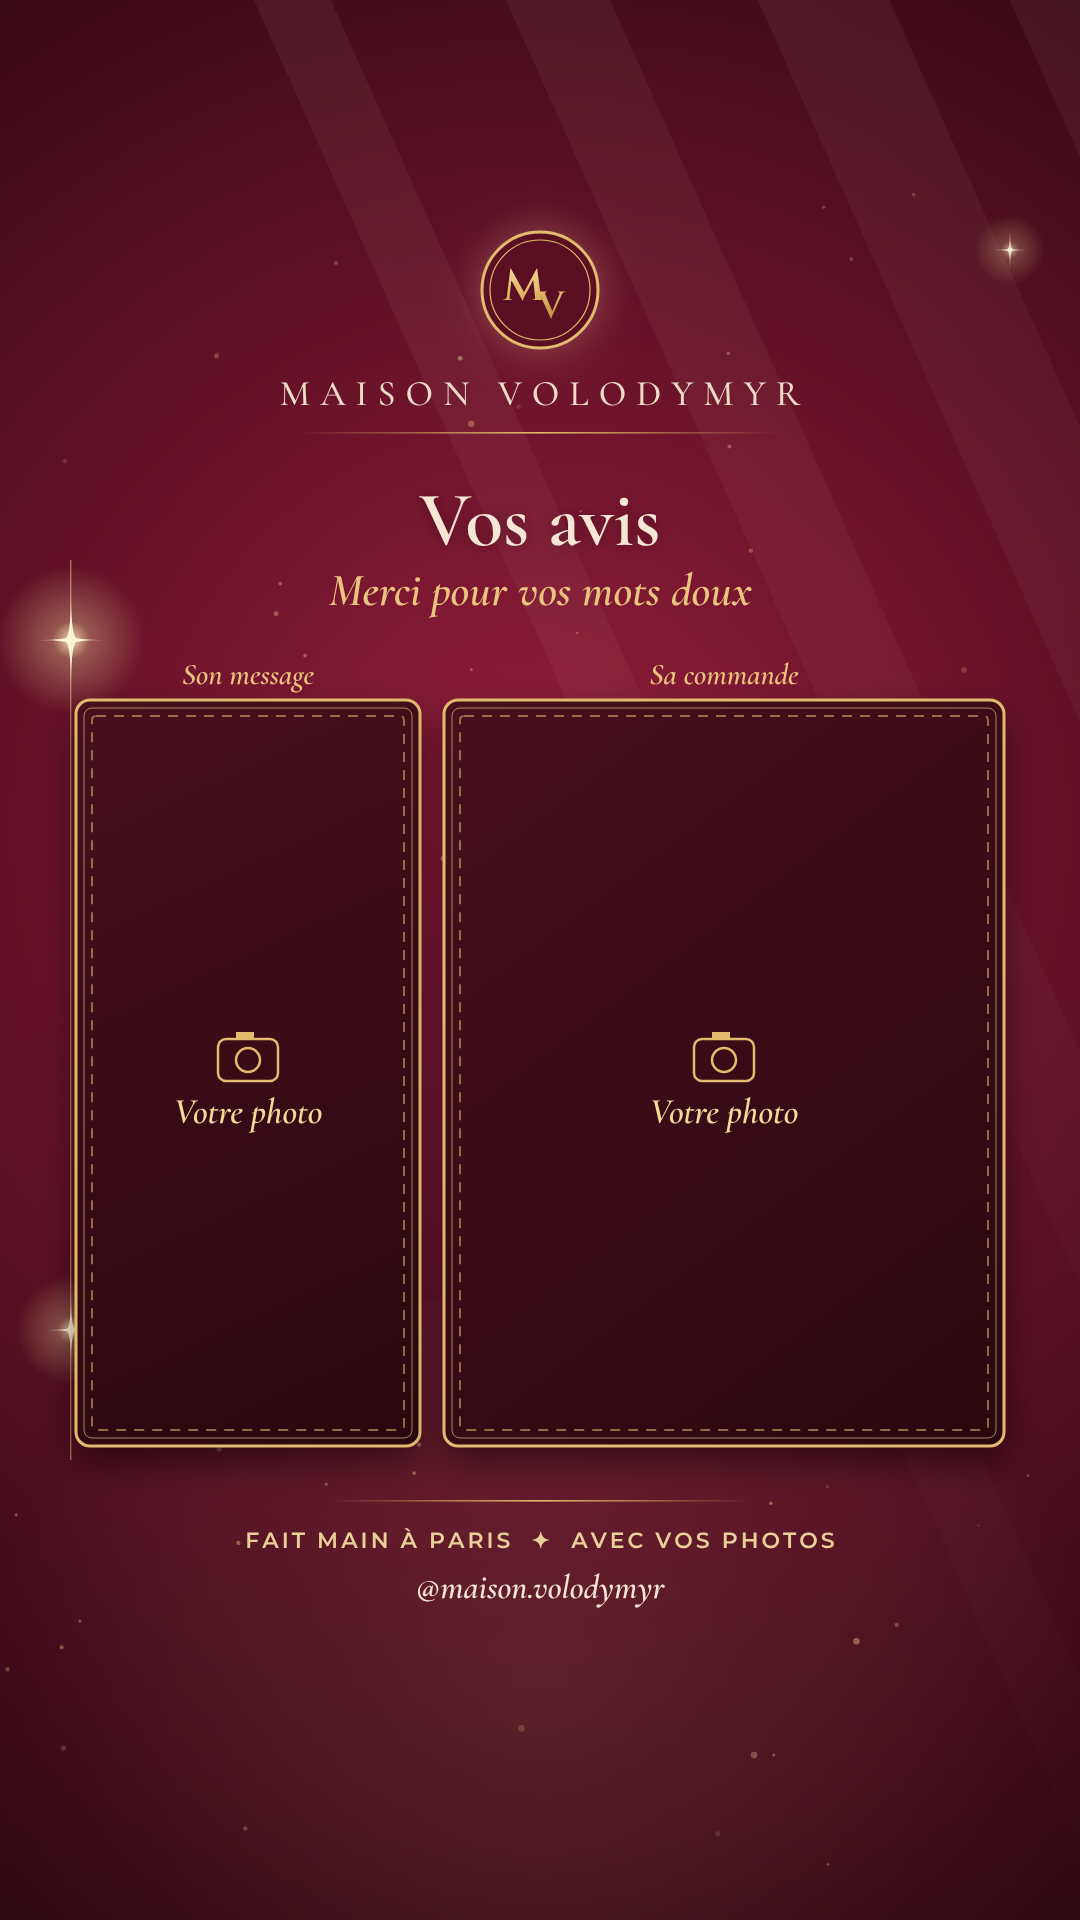
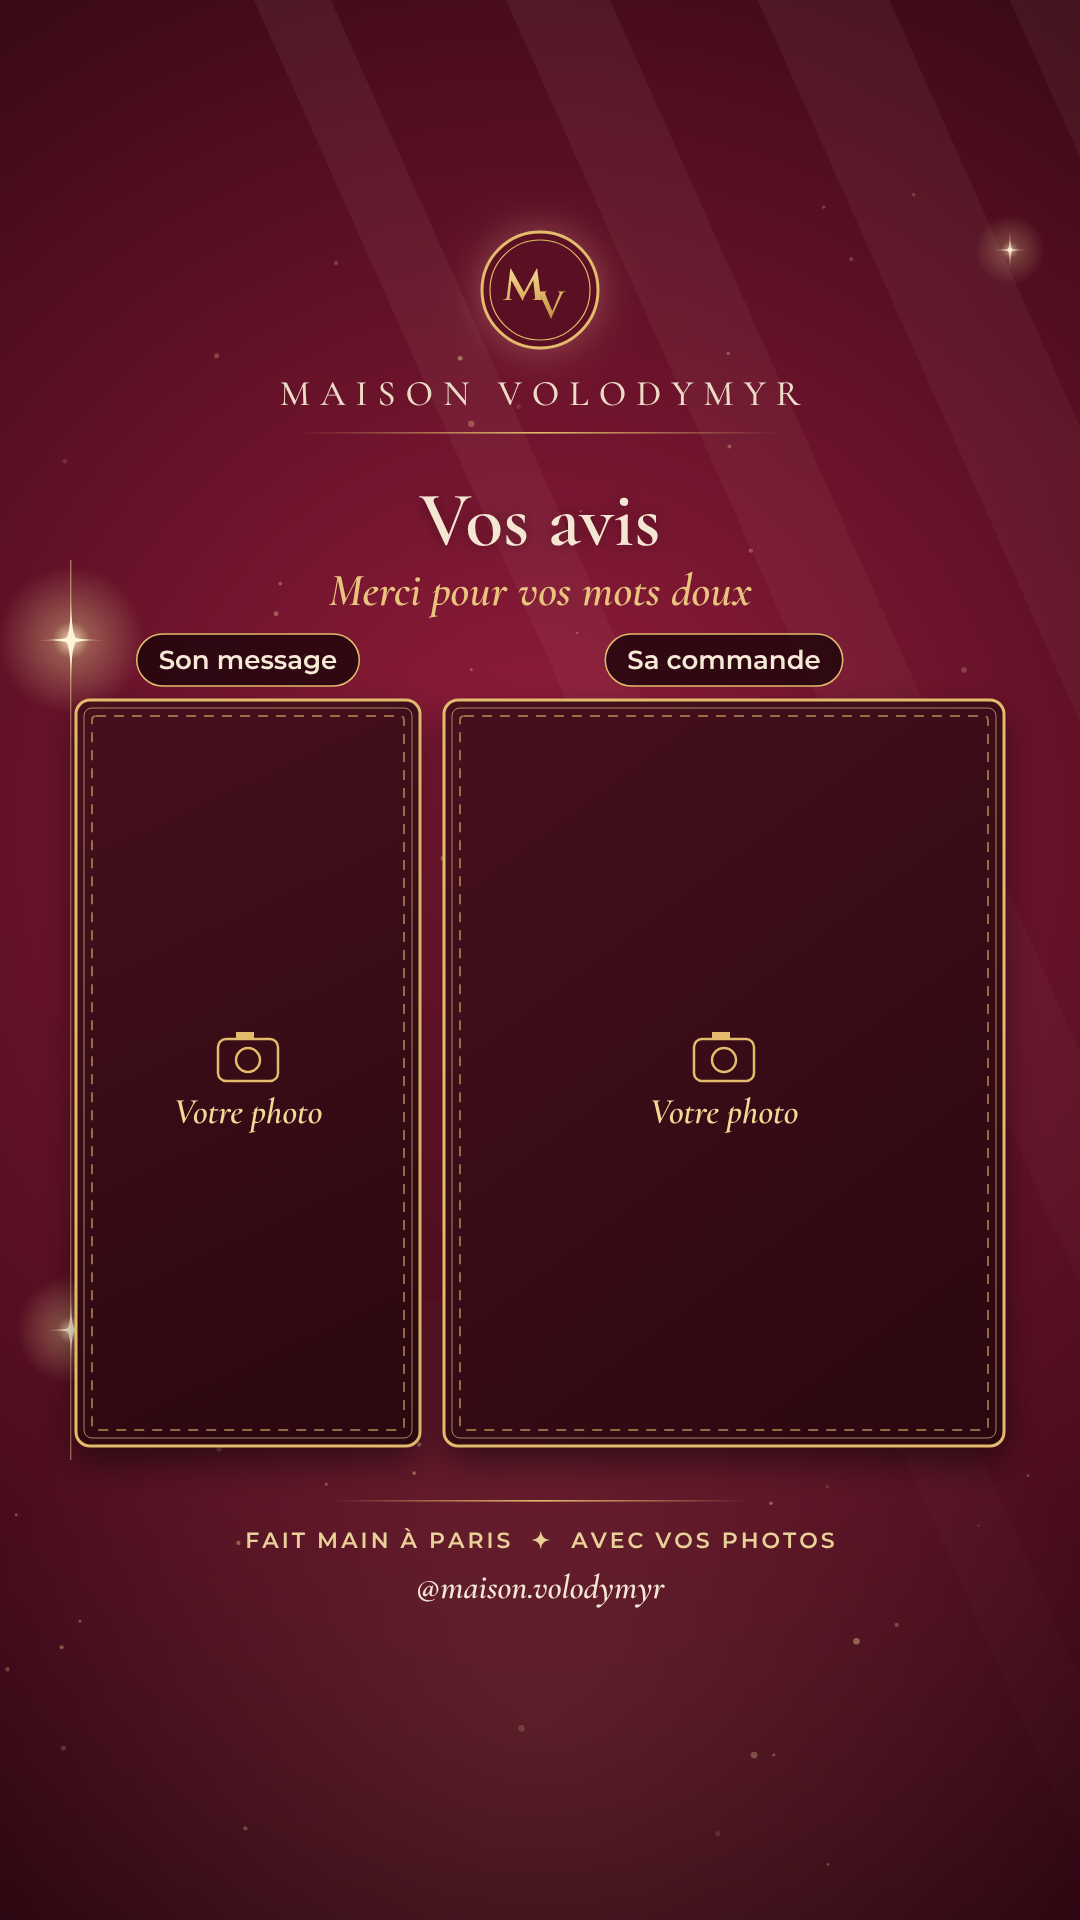
Studio: pill labels above review frames
Claude-Session: https://claude.ai/code/session_01NVYZfQU8cBxnfbyUcCNFxq

Changed region(s): [[0.55, 0.3125, 0.7944, 0.375], [0.1222, 0.3125, 0.3361, 0.375]]

diff --git a/studio/studio.html b/studio/studio.html
@@ -126,7 +126,7 @@ function slot(s,e,i){
  ctx.restore();
  if(e.k!='metal'){ctx.lineWidth=3;ctx.strokeStyle='#e2bb6c';rr(e.x,e.y,e.w,e.h,r);ctx.stroke();if(e.k=='gold'){ctx.lineWidth=1;ctx.strokeStyle='rgba(243,217,150,.6)';rr(e.x+8,e.y+8,e.w-16,e.h-16,Math.max(2,r-6));ctx.stroke()}}
  else{ctx.lineWidth=1.5;ctx.strokeStyle='rgba(0,0,0,.35)';ctx.strokeRect(e.x,e.y,e.w,e.h)}
- if(e.tag&&e.above){const t=fill(s,e.tag);ctx.font=ITAL.replace('{s}',30);ctx.fillStyle='#e9c47e';ctx.textAlign='center';ctx.fillText(t,e.x+e.w/2,e.y-16)}
+ if(e.tag&&e.above){const t=fill(s,e.tag);ctx.font='600 26px '+SANS;const tw=ctx.measureText(t).width,w=tw+44,h=52,x=e.x+(e.w-w)/2,y=e.y-h-14;ctx.fillStyle='rgba(26,4,9,.78)';rr(x,y,w,h,26);ctx.fill();ctx.strokeStyle='#e2bb6c';ctx.lineWidth=1.5;ctx.stroke();ctx.fillStyle='#f6e9d6';ctx.textAlign='center';ctx.fillText(t,e.x+e.w/2,y+35)}
  else if(e.tag){const t=fill(s,e.tag);ctx.font='600 22px '+SANS;const tw=ctx.measureText(t).width;ctx.fillStyle='rgba(26,4,9,.78)';rr(e.x+18,e.y+18,tw+32,44,22);ctx.fill();ctx.strokeStyle='#e2bb6c';ctx.lineWidth=1.5;ctx.stroke();ctx.fillStyle='#f6e9d6';ctx.textAlign='left';ctx.fillText(t,e.x+34,e.y+48)}
 }
 function pill(s,e){
